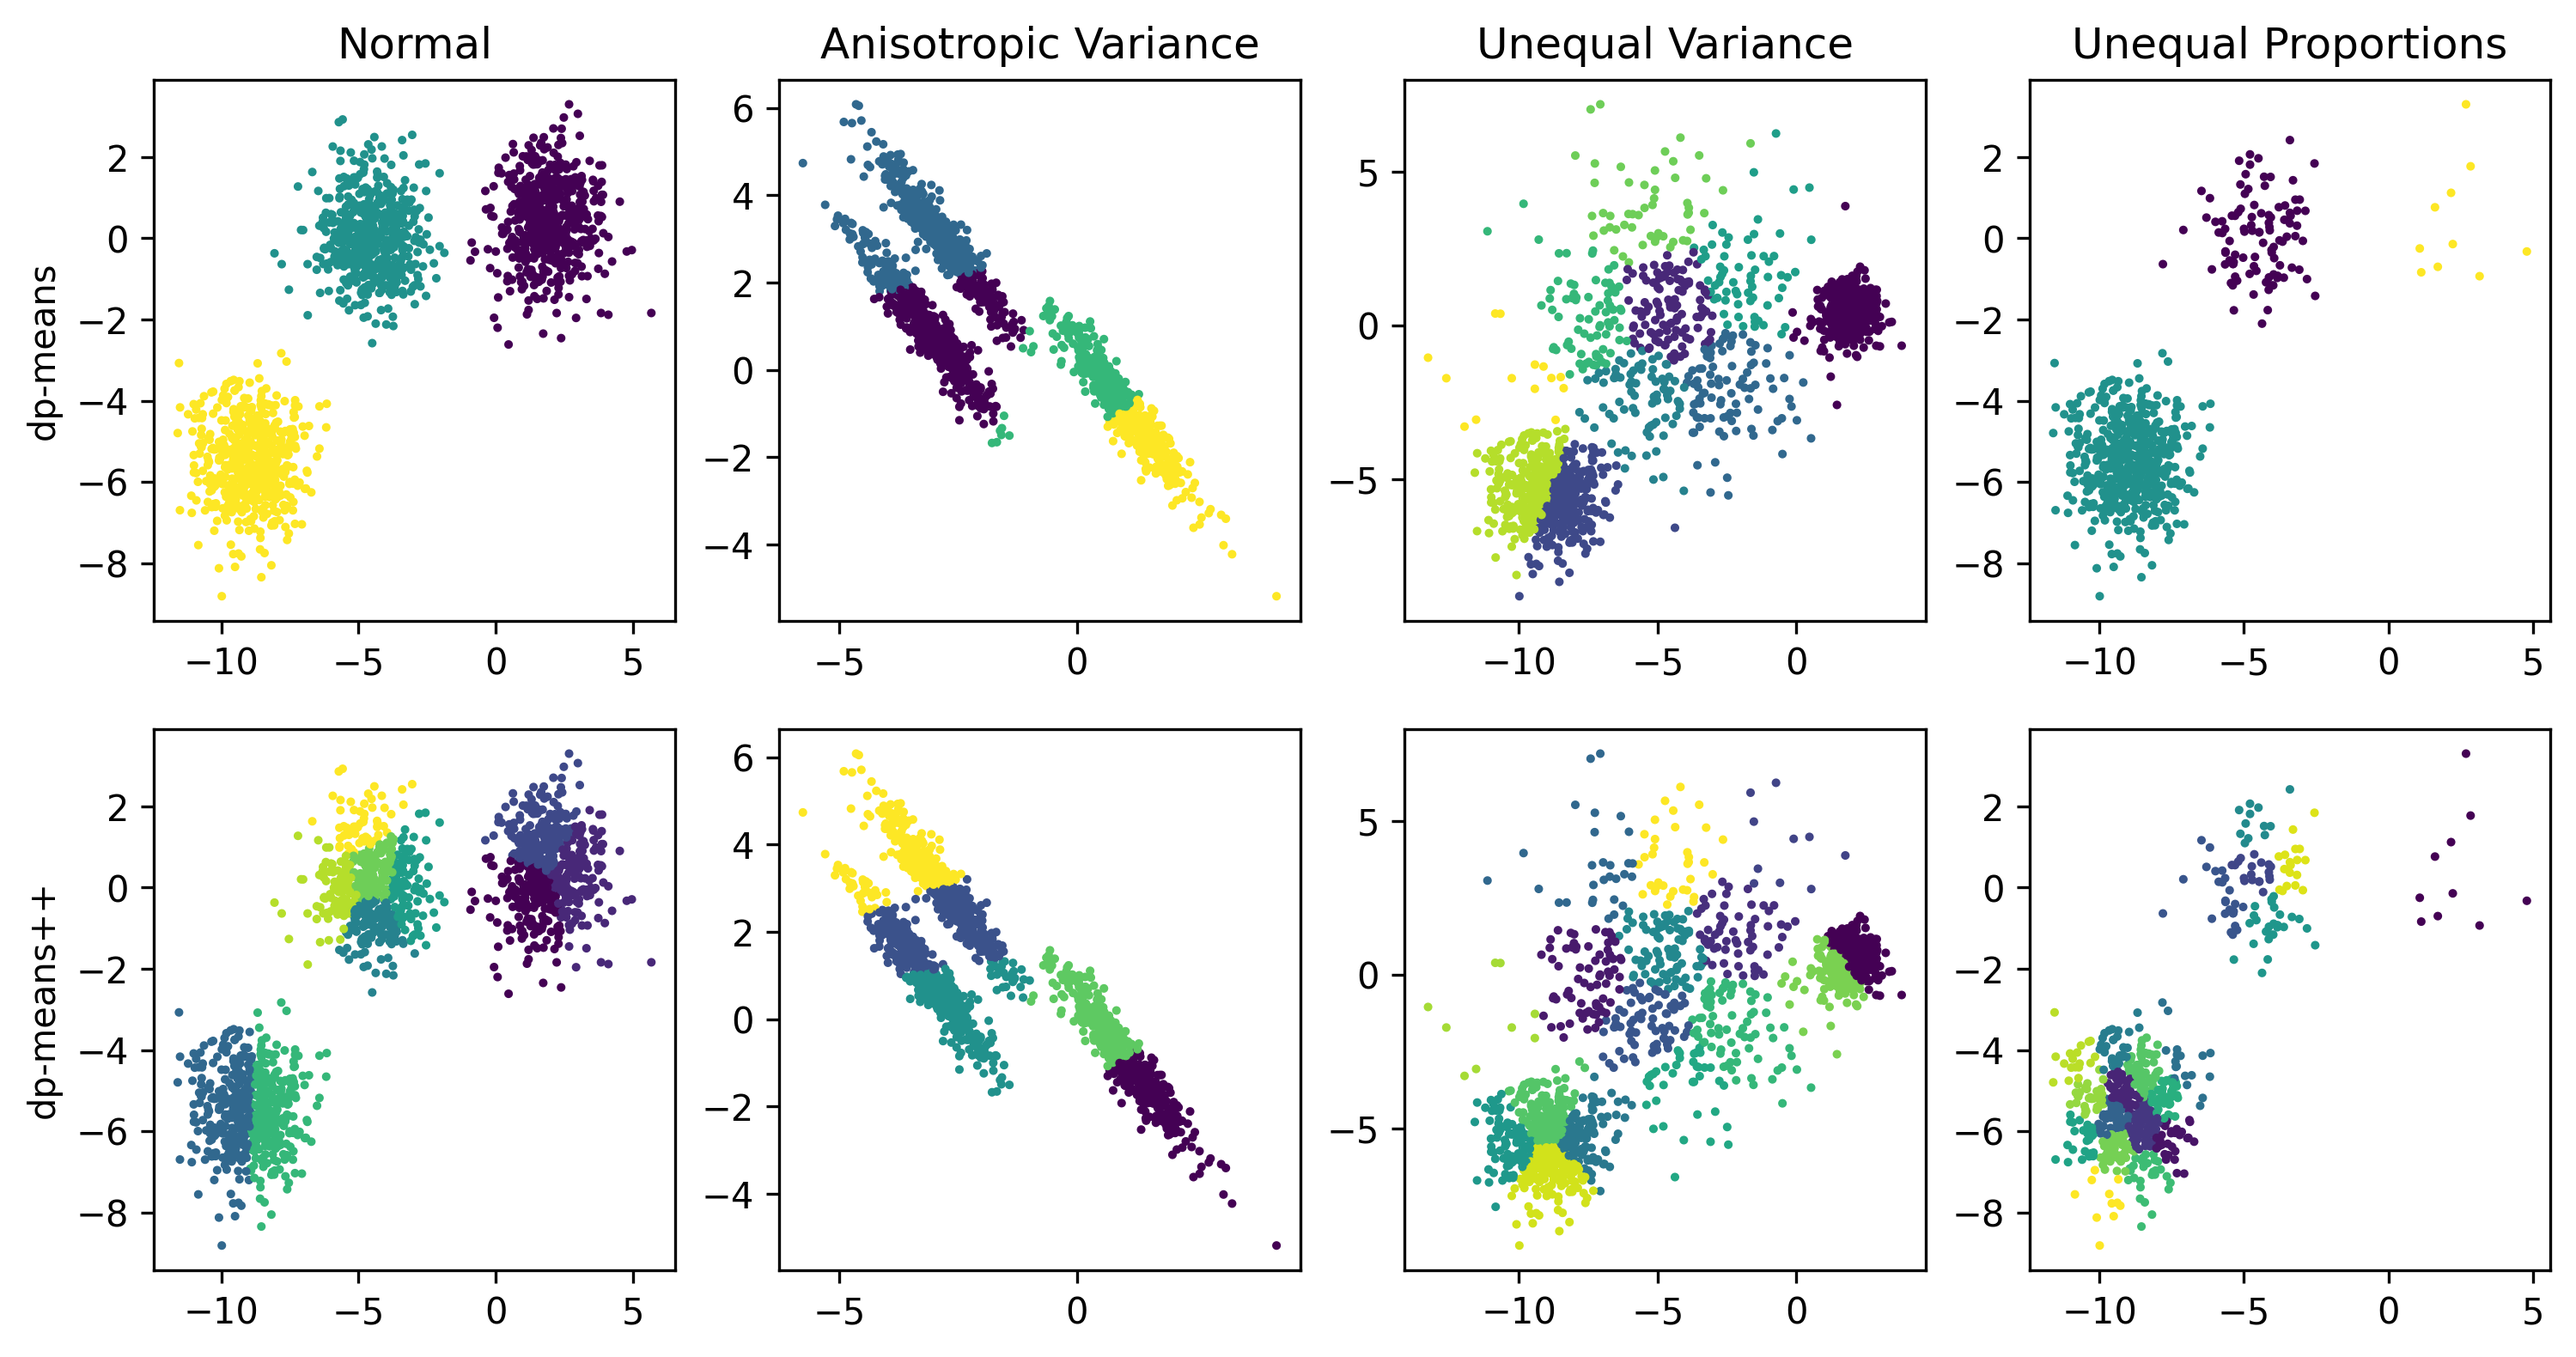
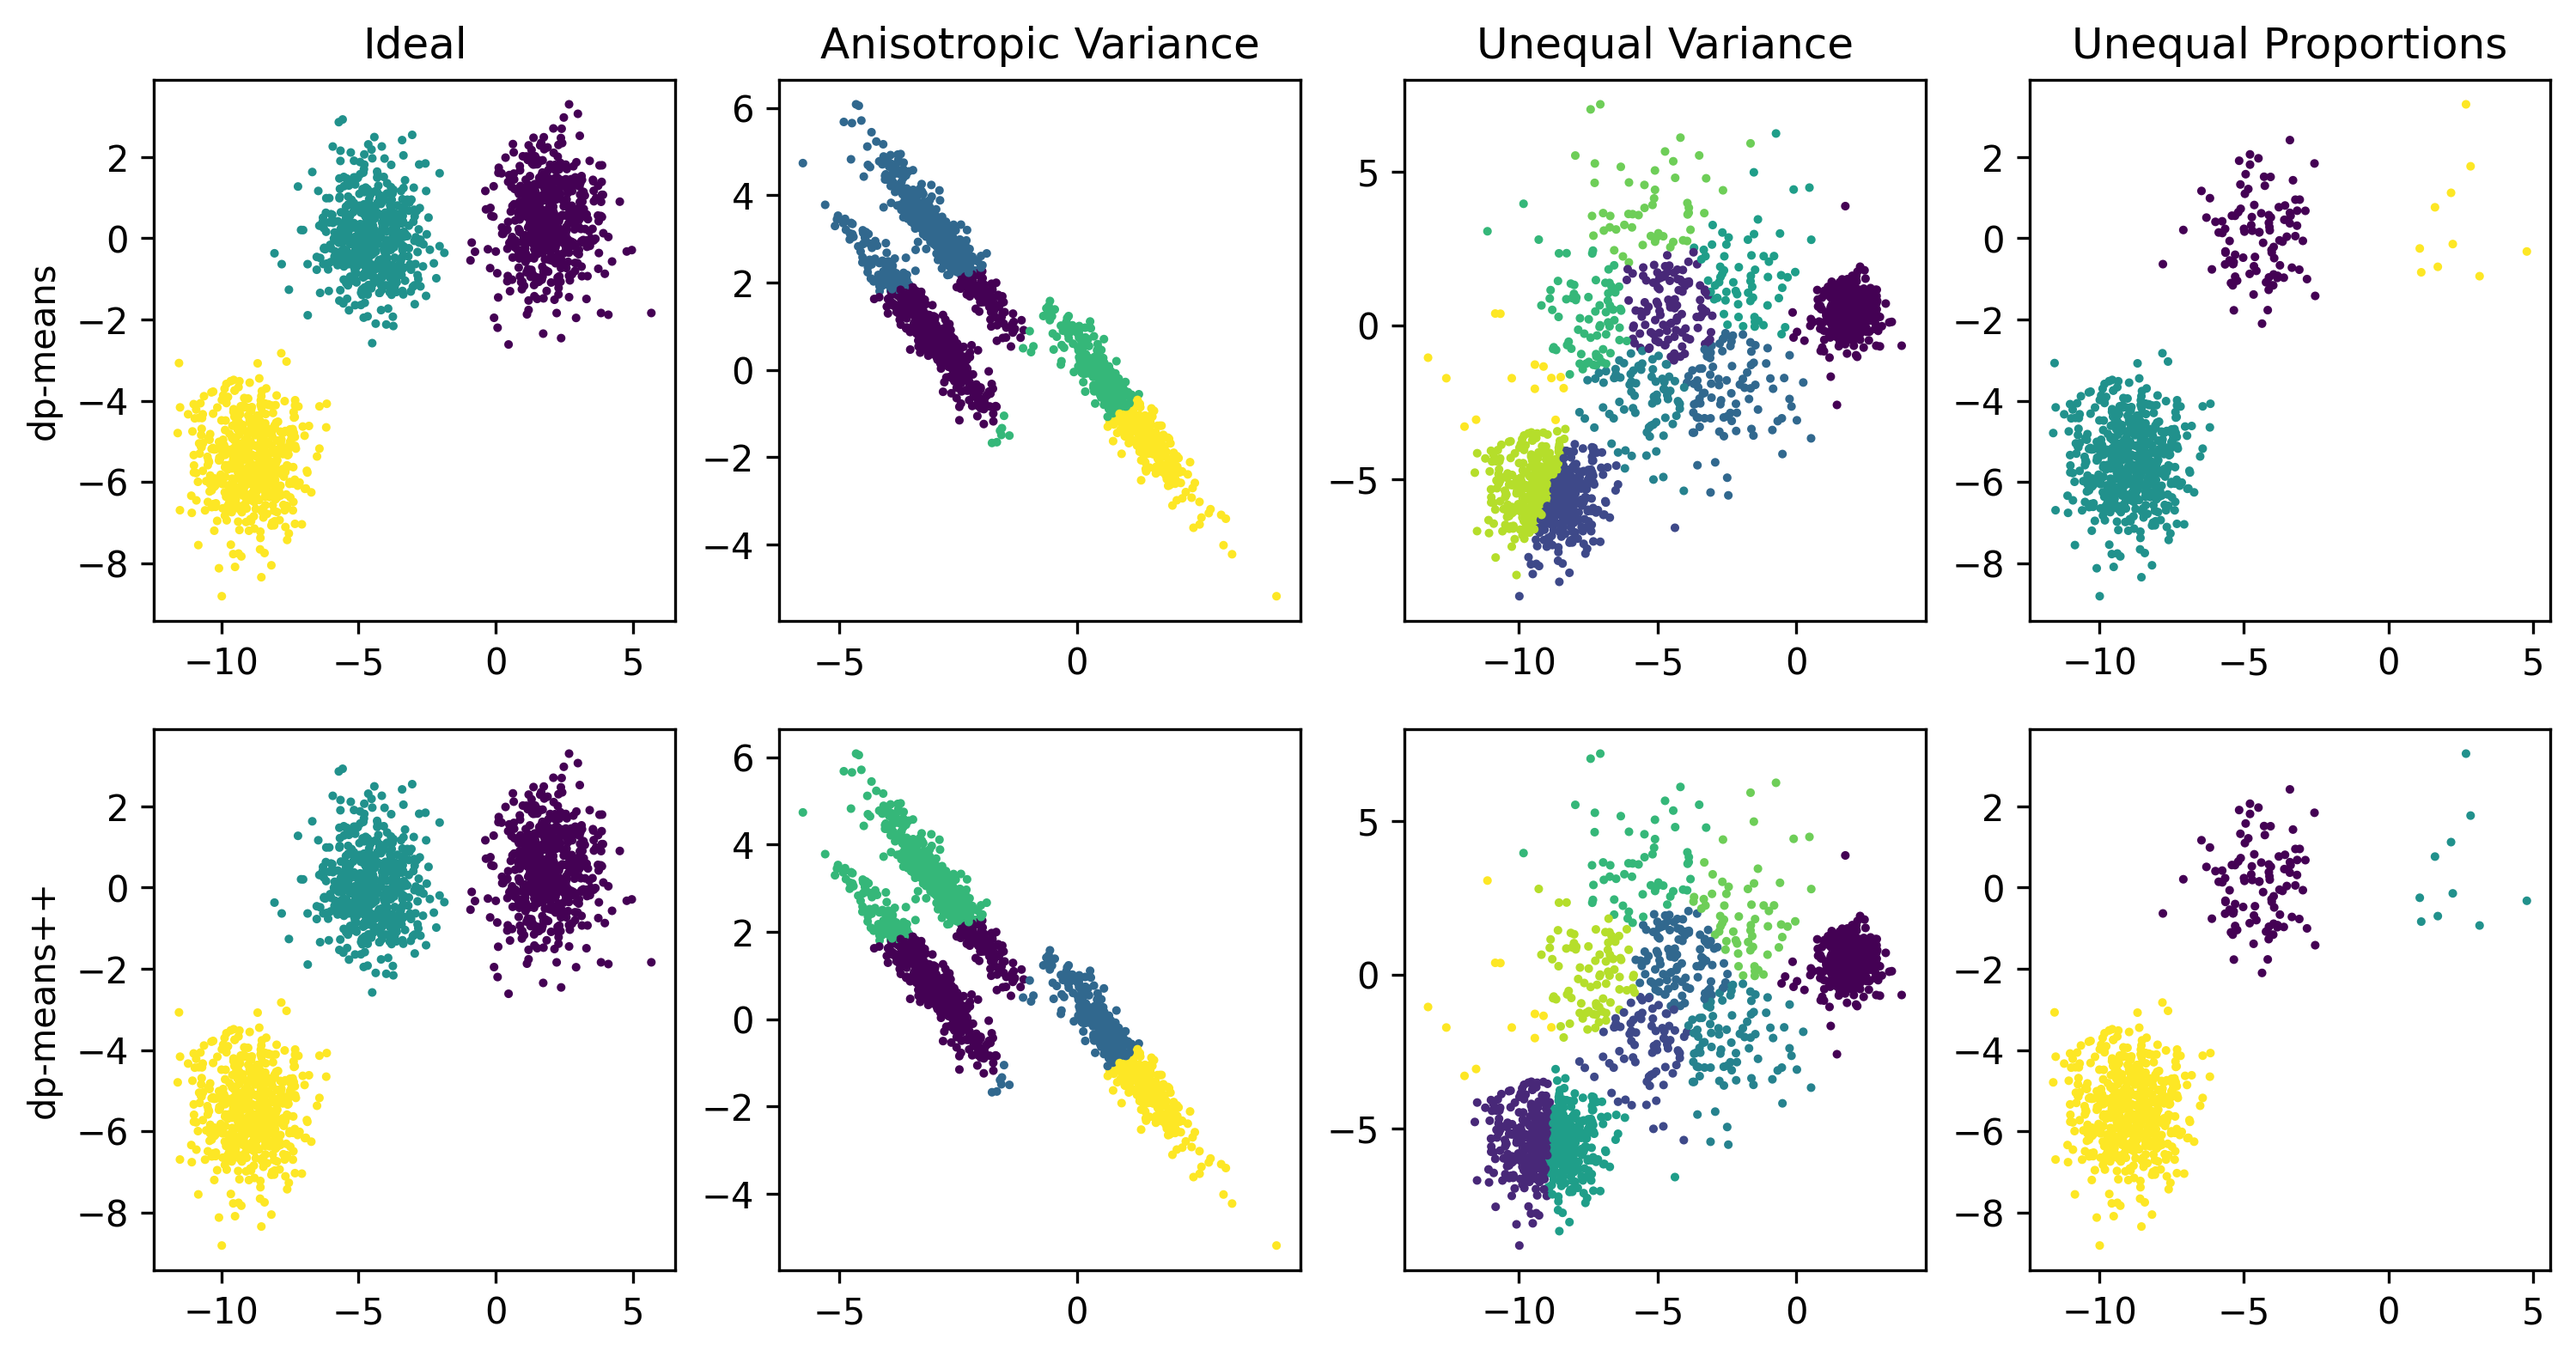
Mixture of Gaussians now works as intended

diff --git a/src/metrics.py b/src/metrics.py
@@ -11,8 +11,13 @@ def compute_predicted_clusters_scores(cluster_assignment_posteriors: np.ndarray,
     # (r, c)th element is probability the rth observation belongs to cth cluster
     # true_cluster_labels: integer classes with shape (num obs, )
 
-    pred_cluster_labels = np.argmax(cluster_assignment_posteriors,
-                                    axis=1)
+    if len(cluster_assignment_posteriors.shape) == 2:
+        pred_cluster_labels = np.argmax(cluster_assignment_posteriors,
+                                        axis=1)
+    elif len(cluster_assignment_posteriors.shape) == 1:
+        pred_cluster_labels = cluster_assignment_posteriors
+    else:
+        raise ValueError('Wrong number of dimensions.')
 
     rnd_score = rand_score(labels_pred=pred_cluster_labels,
                            labels_true=true_cluster_assignments)

diff --git a/src/inference/dpmeans_quick.py b/src/inference/dpmeans_quick.py
@@ -228,8 +228,11 @@ def _init_centroids_dpmeans_plusplus(X: np.ndarray,
             distances_to_existing_centers,
             axis=0)
 
+        # Zero out contenders below max allowable distance
+        distances_to_nearest_center[distances_to_nearest_center <= max_distance_param] = 0.
+
         # Terminate when every sample is within the maximum allowable distance
-        if np.all(distances_to_nearest_center <= max_distance_param):
+        if np.allclose(distances_to_nearest_center, 0.):
             break
 
         sampling_distribution = distances_to_nearest_center \
